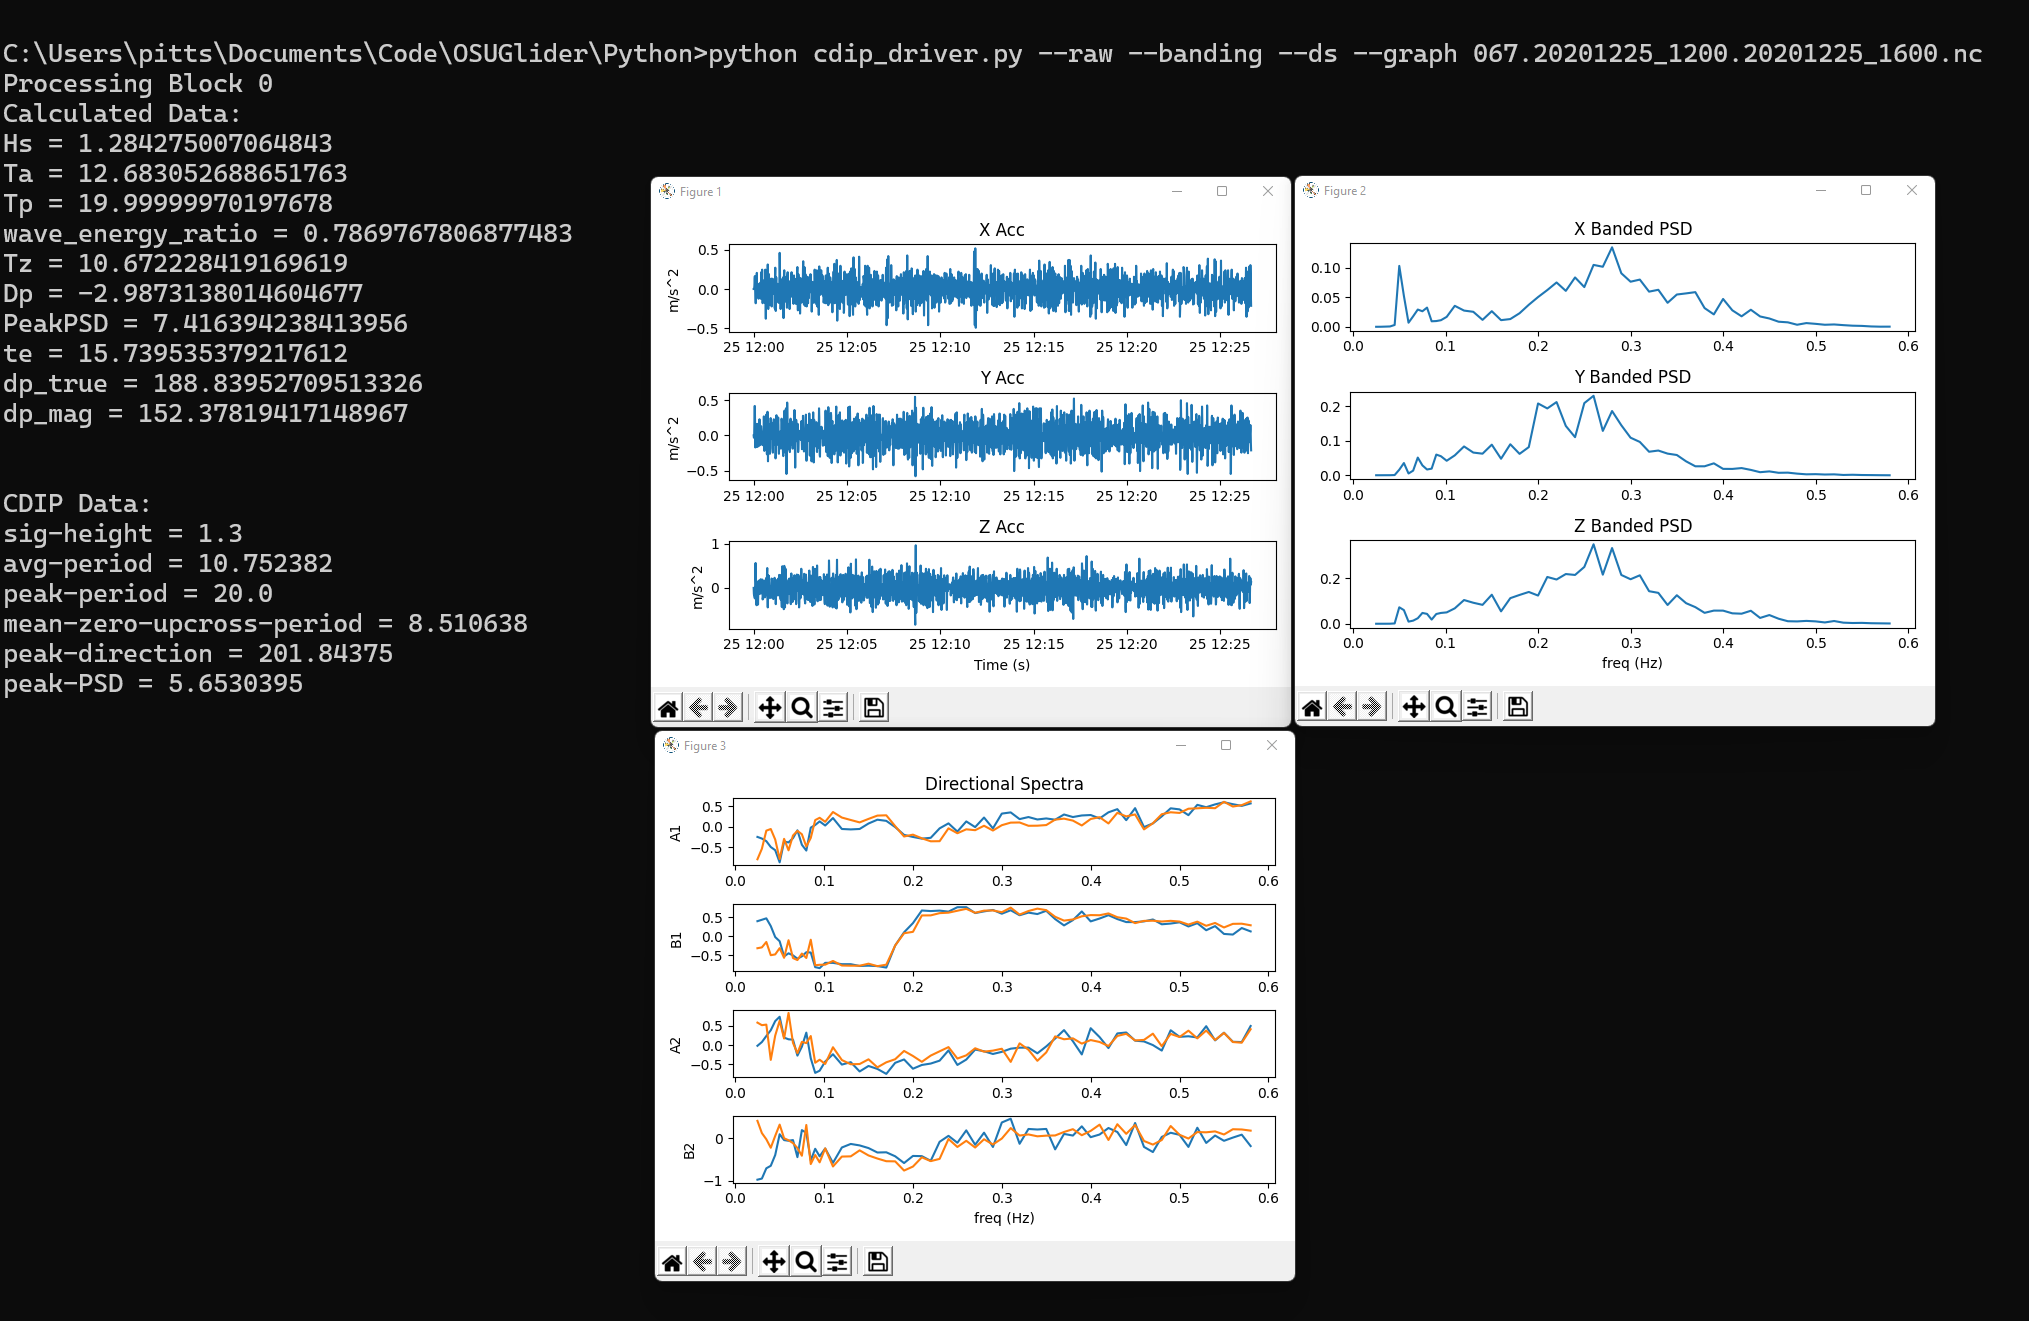
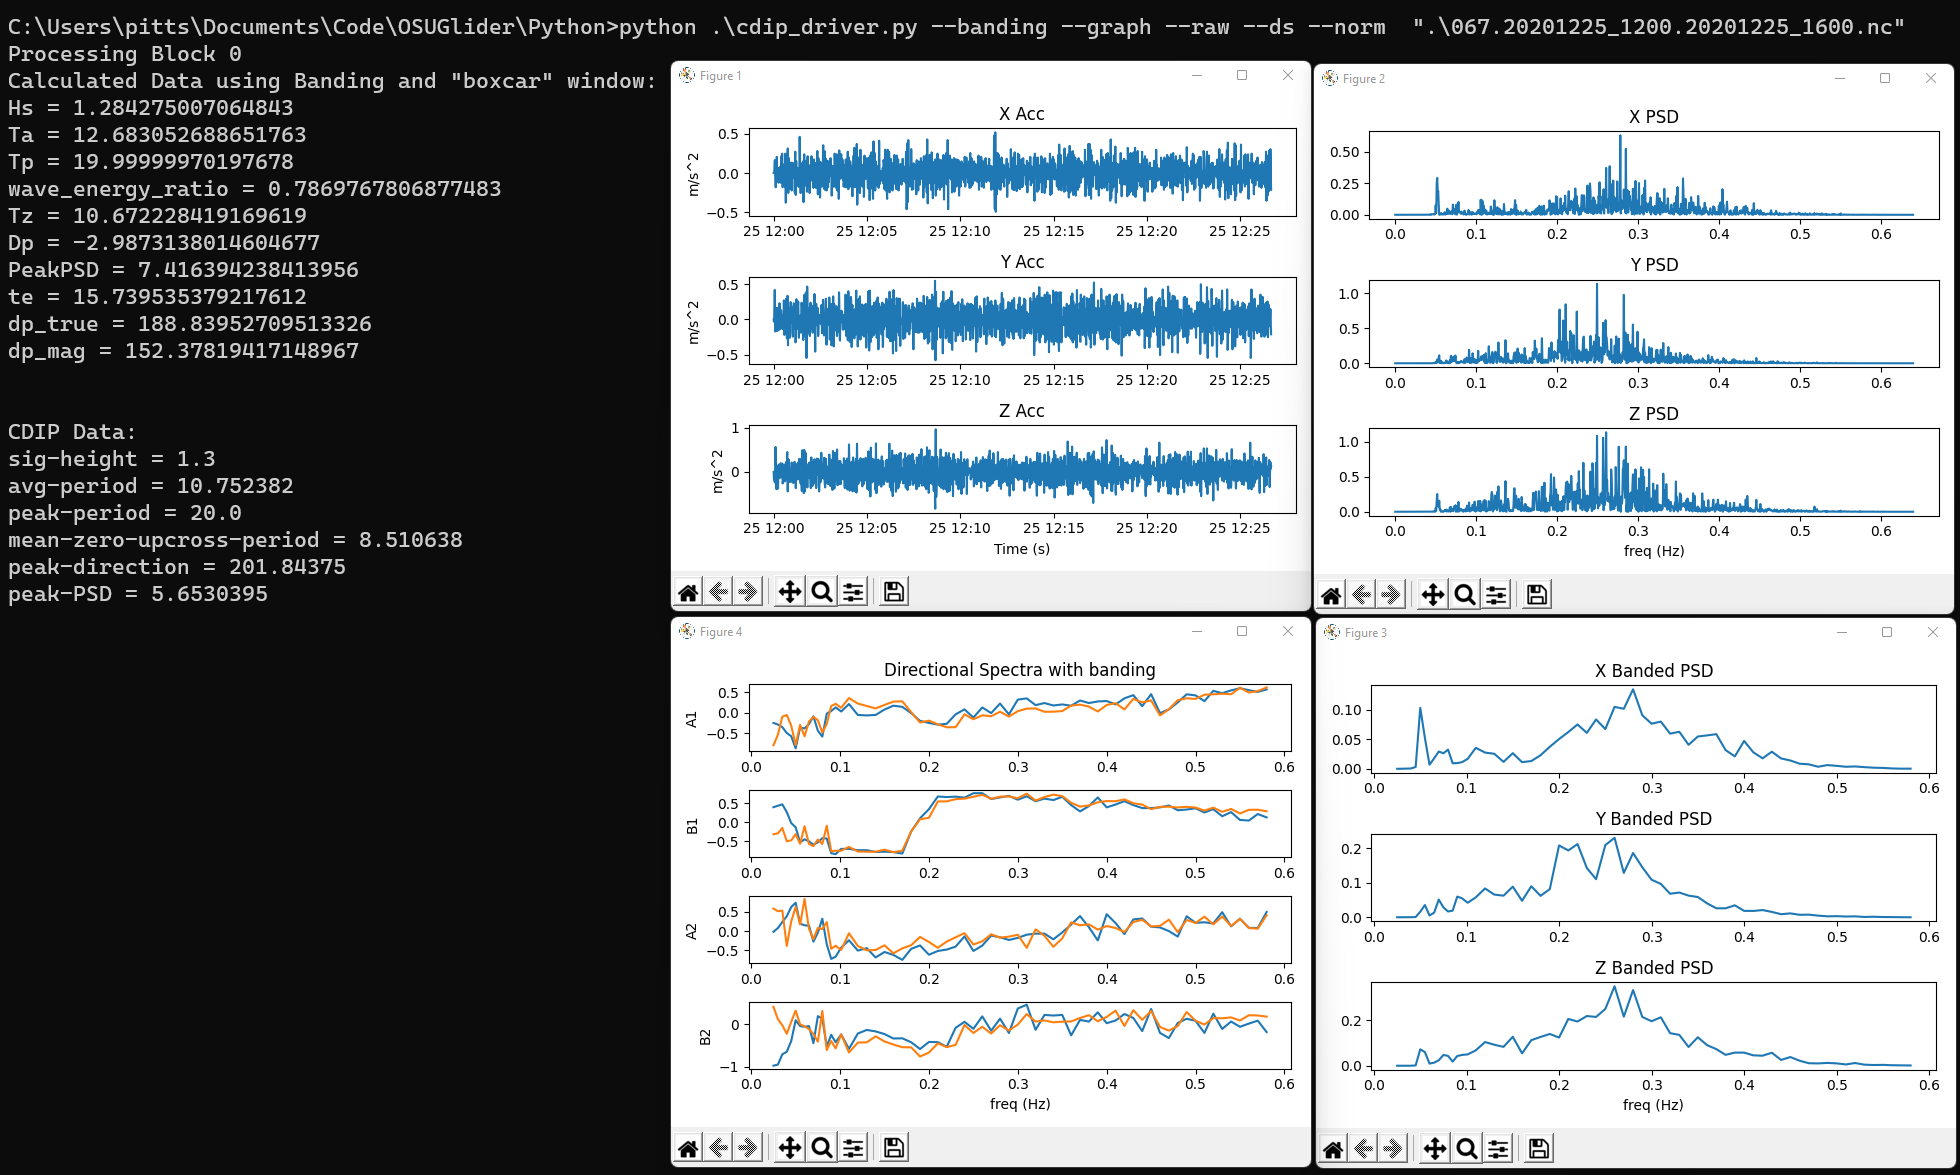
changed photo

diff --git a/Python/README.md b/Python/README.md
@@ -3,9 +3,10 @@
 This program needs numpy, matplotlib, netCDF4, and xarray installed to run. To display different graphs, change the plotting perimeter boolean values towards the top of the driver file.
 
 This file takes command lines<br /> 
-ie: cdip_driver.py [--welch | --banding] [--raw] [--ds] [--graph] nc [nc ...] <br />
+ie: cdip_driver.py [--welch | --banding] [--hann | --boxcar] [--raw] [--ds] [--graph] nc [nc ...] <br />
 where: <br />
     1) --welch, --banding chooses the calculation method <br />
+    2) --hann or --boxcar selects the windowing method <br />
     2) --norm shows the normal fft using built in numpy fft method
     3) --raw plots the raw acceleration data <br />
     4) --ds plots the directional spectra coefficients compared with CDIPs calculations <br />
